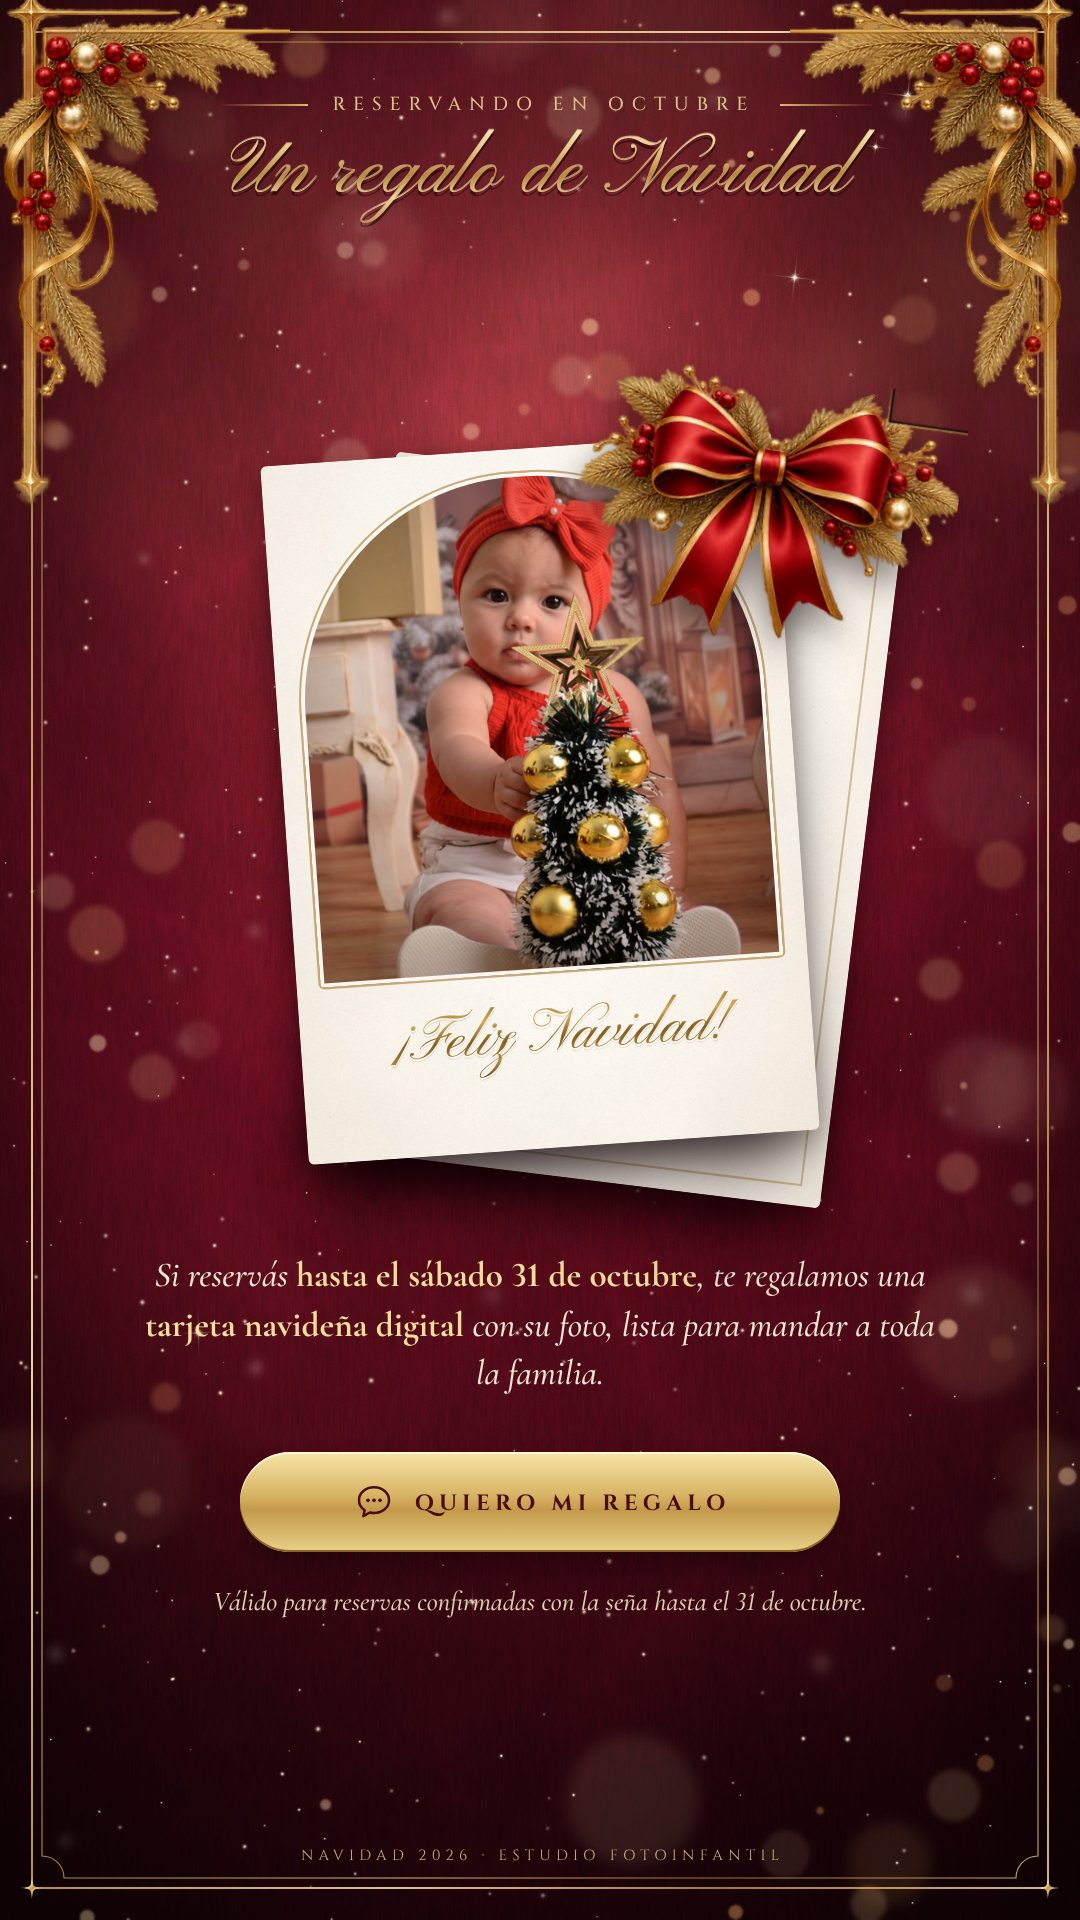
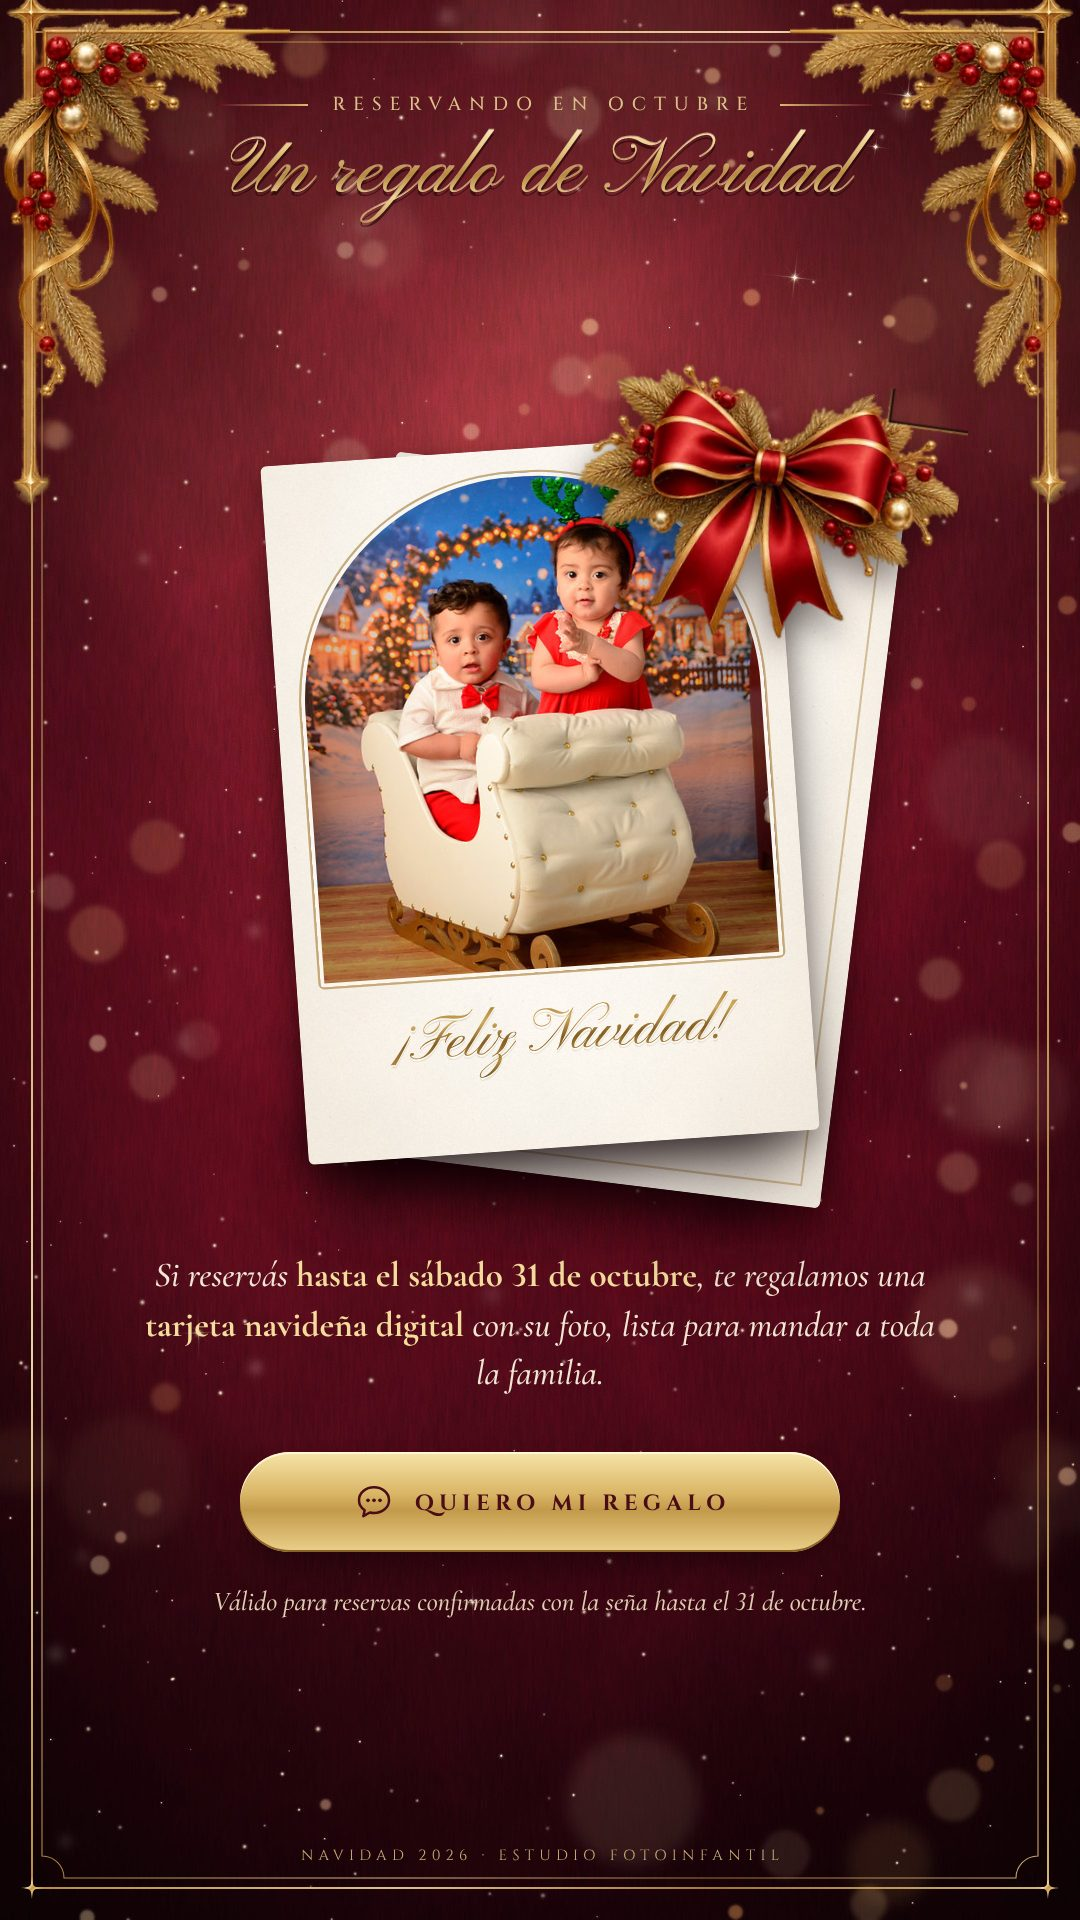
Navidad: sillón del cierre centrado y fotos nuevas también en navidad/ (links enviados antes del 16/11)
- Cierre ("Su lugar ya está listo"): el sillón vacío queda centrado bajo el reloj, en las dos versiones.
- navidad/ (versión 1): mismas fotos nuevas que navidad2; sus textos y precios no cambian.
- Versión nueva en las dos (caché).

Claude-Session: https://claude.ai/code/session_016rWcWKPNL1gNVstxUwshhh

Changed region(s): [[0.275, 0.25, 0.7333, 0.5312]]

diff --git a/navidad2/index.html b/navidad2/index.html
@@ -11,13 +11,13 @@
 <meta property="og:site_name" content="Estudio Fotoinfantil">
 <meta property="og:title" content="Navidad 2026 · Una propuesta pensada para tu familia">
 <meta property="og:description" content="Sesiones navideñas en Estudio Fotoinfantil · Cupos limitados">
-<meta property="og:image" content="https://estudiofotoinfantil.github.io/WebEstudio/navidad2/og.jpg?v=5471bfd1">
+<meta property="og:image" content="https://estudiofotoinfantil.github.io/WebEstudio/navidad2/og.jpg?v=f5aa2865">
 <meta property="og:image:width" content="1200">
 <meta property="og:image:height" content="630">
 <meta property="og:url" content="https://estudiofotoinfantil.github.io/WebEstudio/navidad2/">
 <meta name="twitter:card" content="summary_large_image">
-<link rel="icon" type="image/png" href="assets/favicon.png?v=5471bfd1">
-<link rel="apple-touch-icon" href="assets/apple-touch-icon.png?v=5471bfd1">
+<link rel="icon" type="image/png" href="assets/favicon.png?v=f5aa2865">
+<link rel="apple-touch-icon" href="assets/apple-touch-icon.png?v=f5aa2865">
 <link rel="preload" href="fonts/pinyon-script-latin-400-normal.woff2" as="font" type="font/woff2" crossorigin>
 <link rel="preload" href="fonts/ballet-static-400.woff2" as="font" type="font/woff2" crossorigin>
 <link rel="preload" href="fonts/cormorant-garamond-latin-500-italic.woff2" as="font" type="font/woff2" crossorigin>
@@ -40,8 +40,8 @@
   window.__fitK = k;
 })();
 </script>
-<script>window.NAV_V='5471bfd1';</script>
-<script src="config.js?v=5471bfd1"></script>
+<script>window.NAV_V='f5aa2865';</script>
+<script src="config.js?v=f5aa2865"></script>
 <style>
 @font-face{font-family:"Ballet";src:url(fonts/ballet-static-400.woff2) format("woff2");font-weight:400;font-display:block}
 @font-face{font-family:"Pinyon";src:url(fonts/pinyon-script-latin-400-normal.woff2) format("woff2");font-display:block}
@@ -1723,6 +1723,6 @@ html.anim .pw.in.cover-w .rv{transform:none}
 </div>
 <div class="toast" id="toast" role="status" aria-live="polite"></div>
 
-<script src="app.js?v=5471bfd1" defer></script>
+<script src="app.js?v=f5aa2865" defer></script>
 </body>
 </html>

diff --git a/navidad/index.html b/navidad/index.html
@@ -11,13 +11,13 @@
 <meta property="og:site_name" content="Estudio Fotoinfantil">
 <meta property="og:title" content="Navidad 2026 · Una propuesta pensada para tu familia">
 <meta property="og:description" content="Sesiones navideñas en Estudio Fotoinfantil · Cupos limitados">
-<meta property="og:image" content="https://estudiofotoinfantil.github.io/WebEstudio/navidad/og.jpg?v=cb5884ee">
+<meta property="og:image" content="https://estudiofotoinfantil.github.io/WebEstudio/navidad/og.jpg?v=774e1493">
 <meta property="og:image:width" content="1200">
 <meta property="og:image:height" content="630">
 <meta property="og:url" content="https://estudiofotoinfantil.github.io/WebEstudio/navidad/">
 <meta name="twitter:card" content="summary_large_image">
-<link rel="icon" type="image/png" href="assets/favicon.png?v=cb5884ee">
-<link rel="apple-touch-icon" href="assets/apple-touch-icon.png?v=cb5884ee">
+<link rel="icon" type="image/png" href="assets/favicon.png?v=774e1493">
+<link rel="apple-touch-icon" href="assets/apple-touch-icon.png?v=774e1493">
 <link rel="preload" href="fonts/pinyon-script-latin-400-normal.woff2" as="font" type="font/woff2" crossorigin>
 <link rel="preload" href="fonts/ballet-static-400.woff2" as="font" type="font/woff2" crossorigin>
 <link rel="preload" href="fonts/cormorant-garamond-latin-500-italic.woff2" as="font" type="font/woff2" crossorigin>
@@ -40,8 +40,8 @@
   window.__fitK = k;
 })();
 </script>
-<script>window.NAV_V='cb5884ee';</script>
-<script src="config.js?v=cb5884ee"></script>
+<script>window.NAV_V='774e1493';</script>
+<script src="config.js?v=774e1493"></script>
 <style>
 @font-face{font-family:"Ballet";src:url(fonts/ballet-static-400.woff2) format("woff2");font-weight:400;font-display:block}
 @font-face{font-family:"Pinyon";src:url(fonts/pinyon-script-latin-400-normal.woff2) format("woff2");font-display:block}
@@ -1713,6 +1713,6 @@ html.anim .pw.in.cover-w .rv{transform:none}
 </div>
 <div class="toast" id="toast" role="status" aria-live="polite"></div>
 
-<script src="app.js?v=cb5884ee" defer></script>
+<script src="app.js?v=774e1493" defer></script>
 </body>
 </html>
